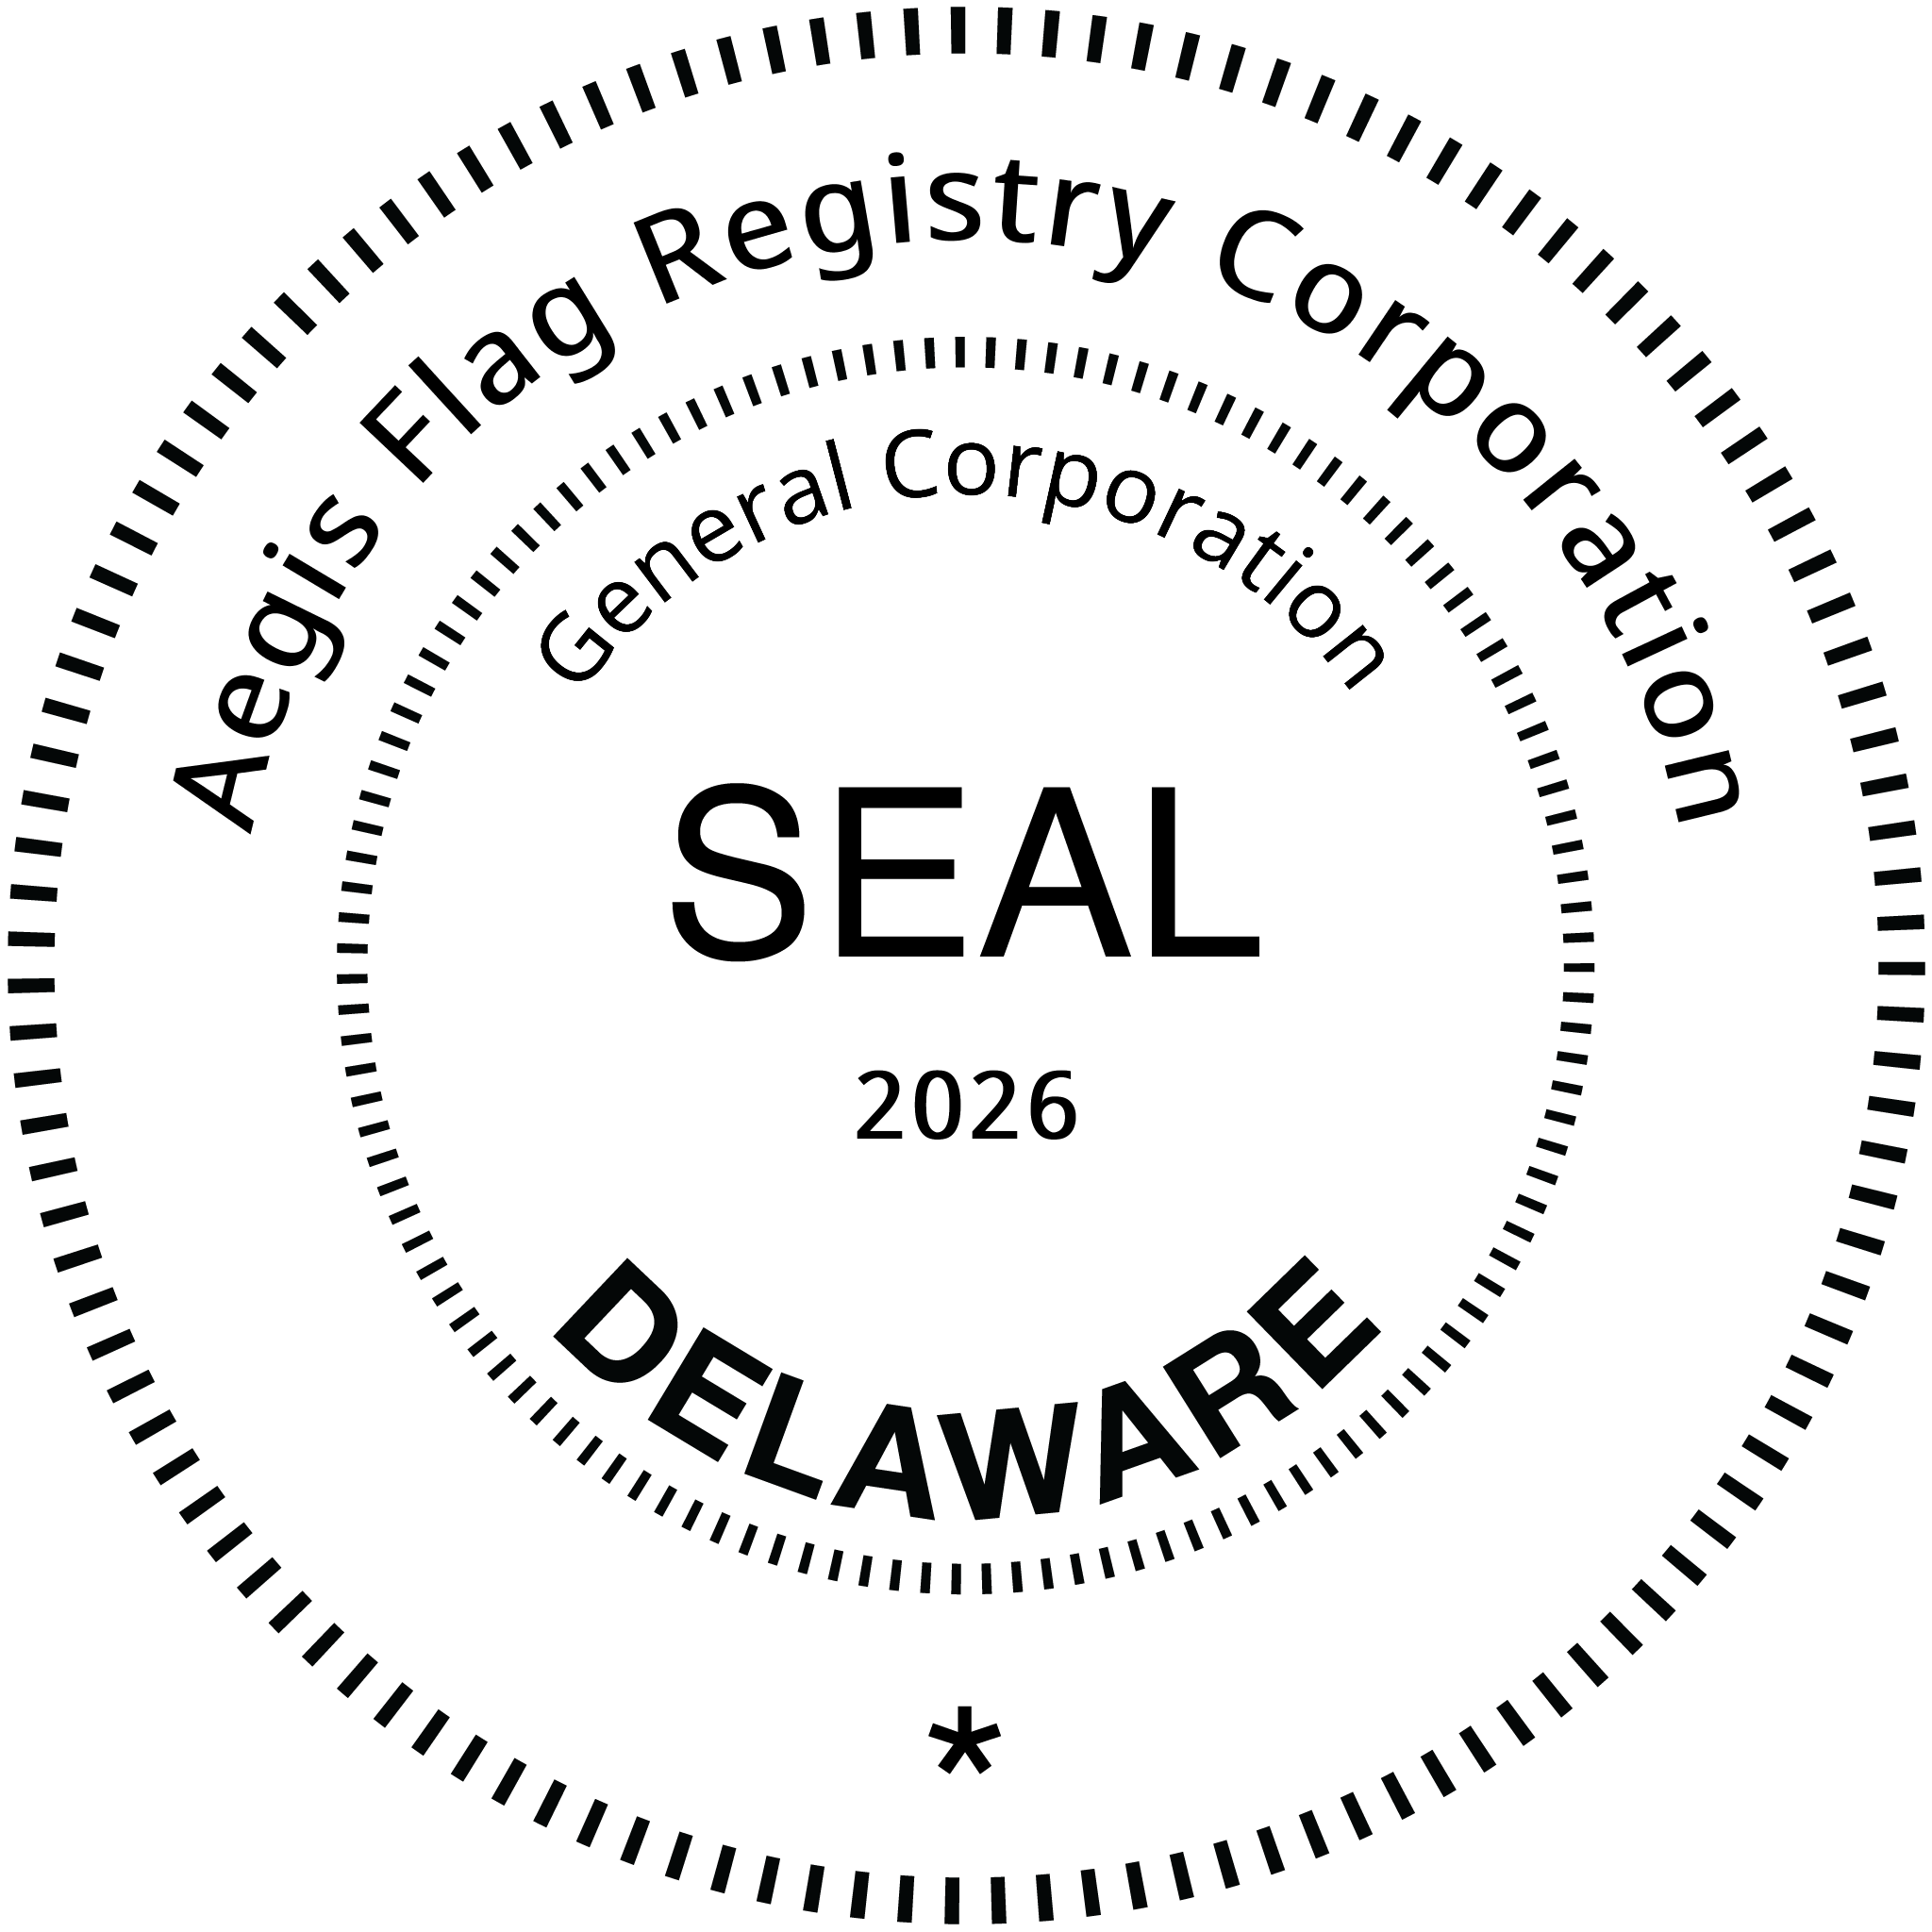
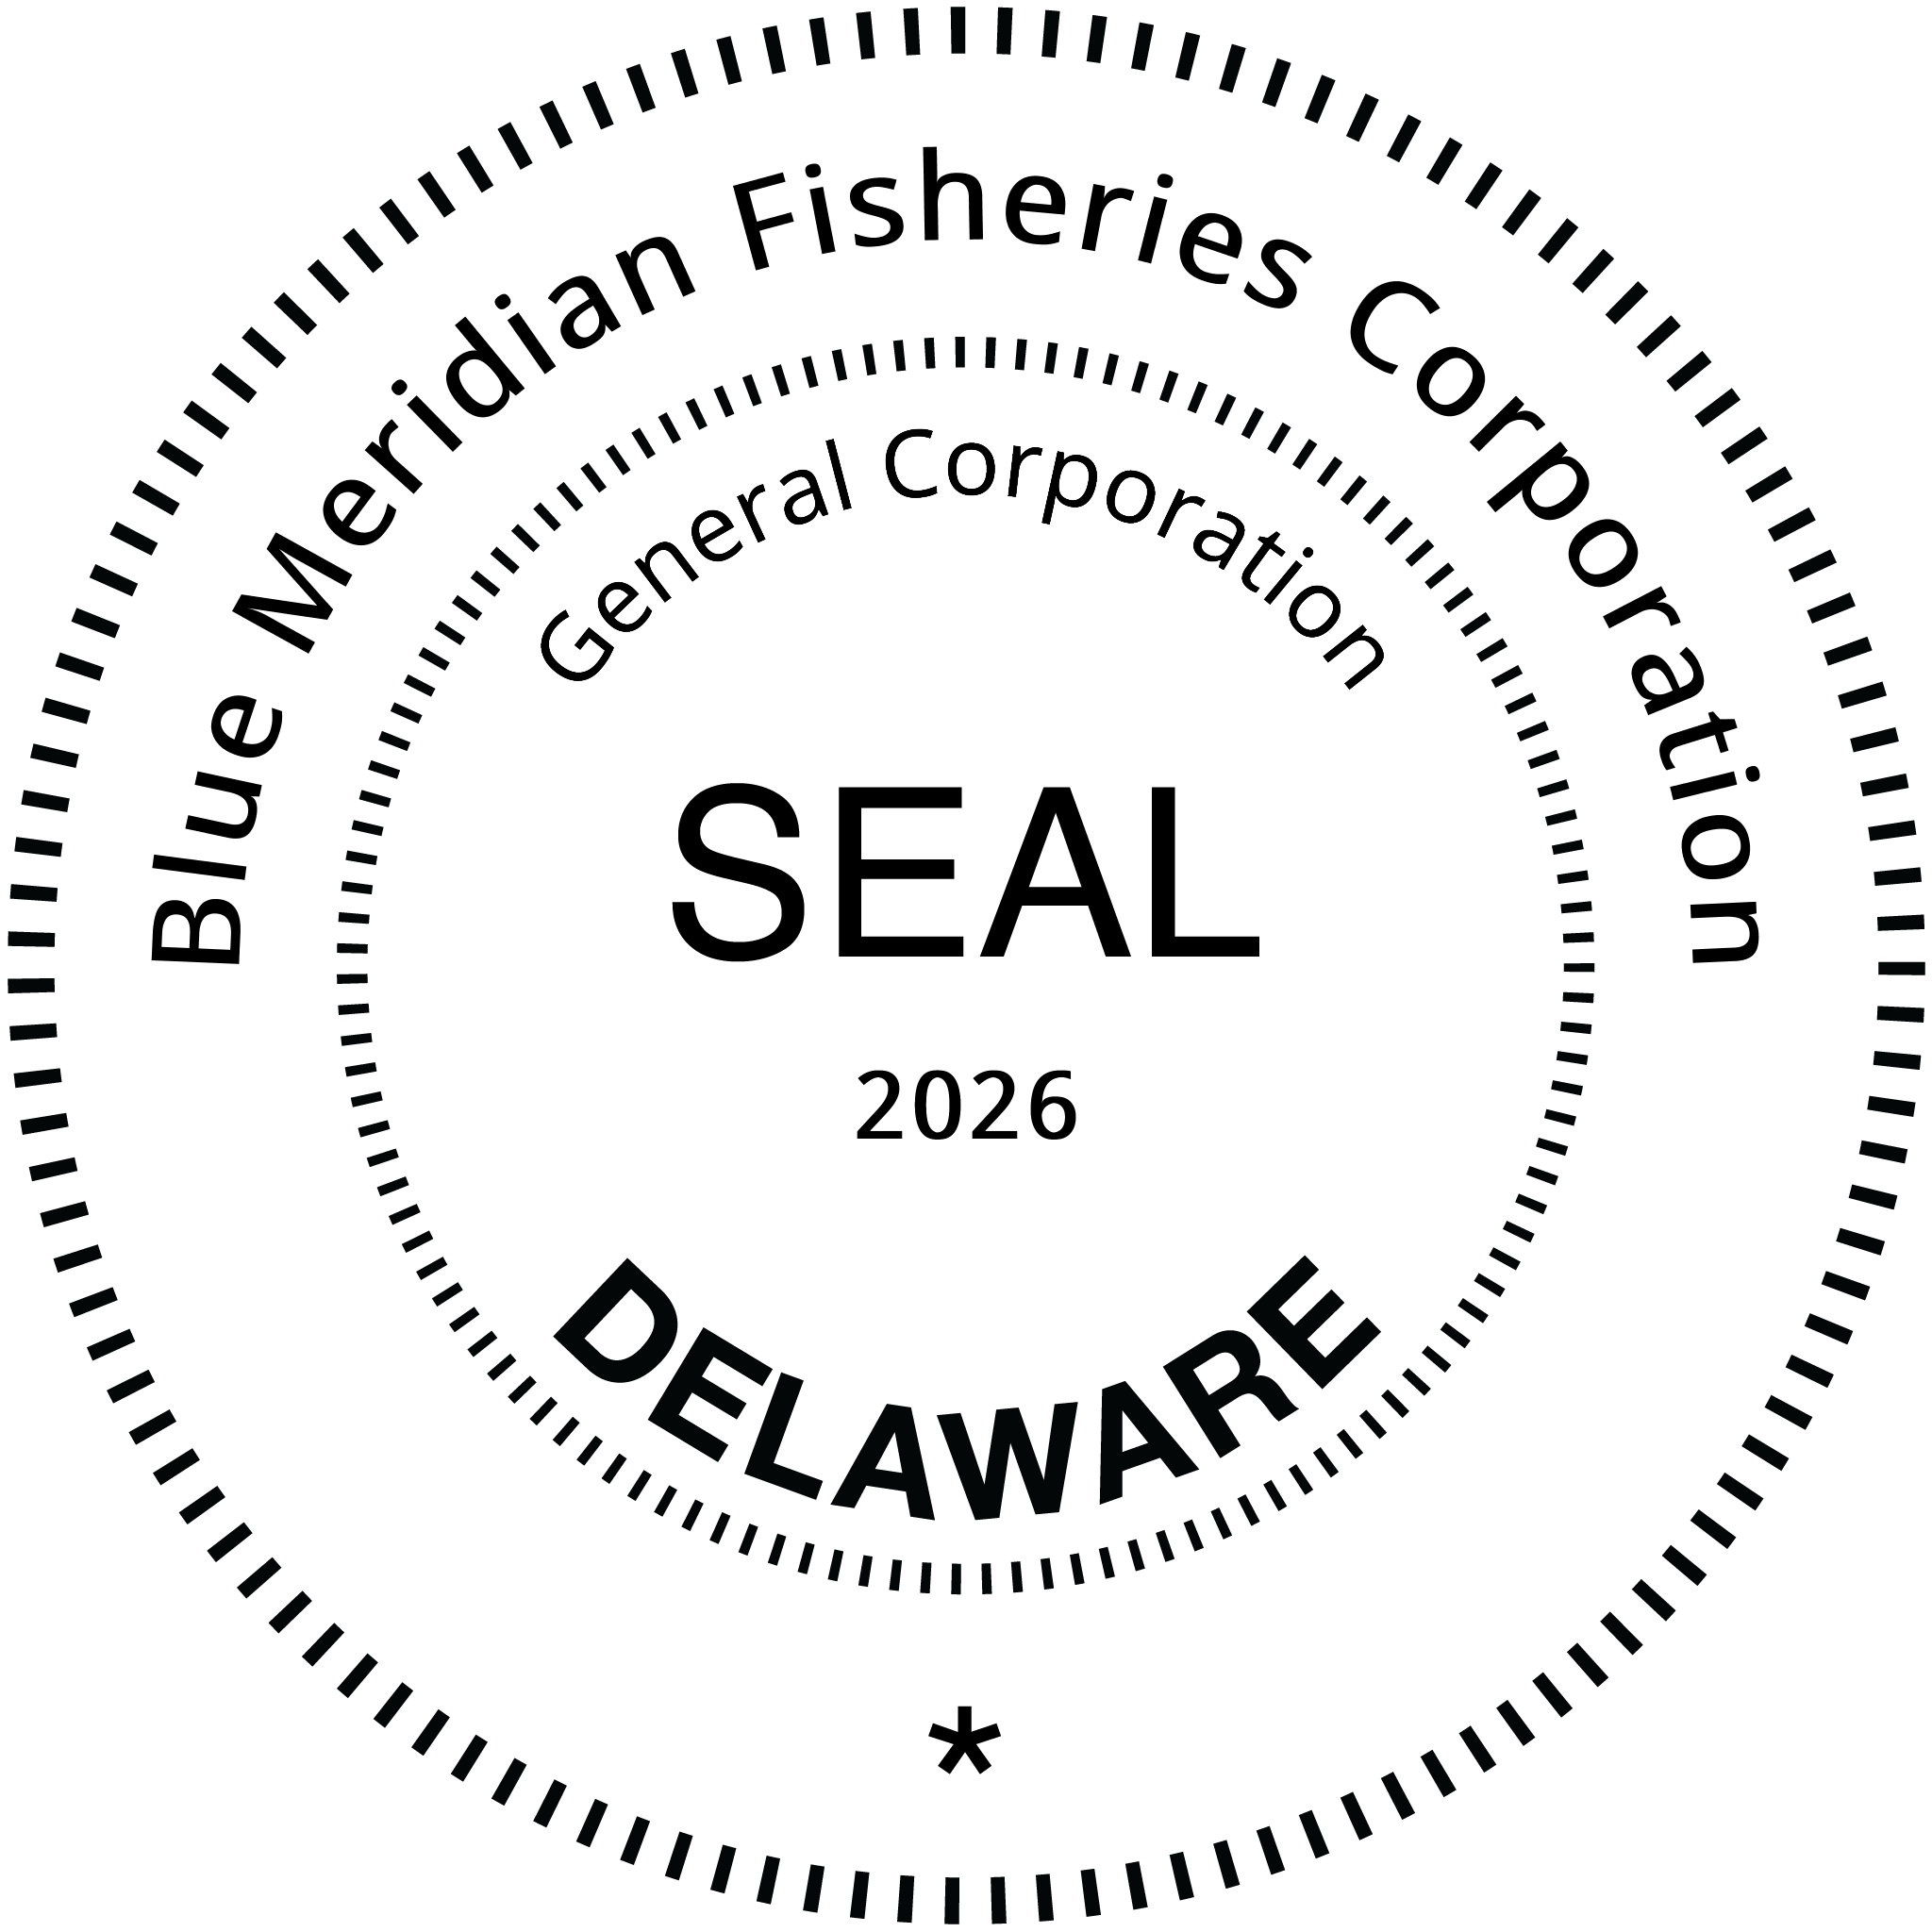
feat: rebrand to Blue Meridian Fisheries Corporation
- Update company name, file number (DE 10677862), and serial prefix
  (BMFC-) throughout certificate and landing page
- Replace stamp with Blue Meridian stamp
- Update wrangler.toml: project name, R2 bucket (bluemeridian),
  D1 database name (bluemeridian_db — ID pending)

Changed region(s): [[0.0625, 0.0625, 0.9062, 0.5]]

diff --git a/src/lib/certificate.ts b/src/lib/certificate.ts
@@ -56,9 +56,9 @@ export async function generateCertificate(
   }
 
   // Company name
-  centered('AEGIS FLAG REGISTRY CORPORATION', bold, 21, height - 104, DARK_BLUE);
+  centered('BLUE MERIDIAN FISHERIES CORPORATION', bold, 21, height - 104, DARK_BLUE);
   // Subtitle
-  centered('Delaware Corporation  ·  File Number: DE 10677842  ·  Incorporated: June 26, 2026', regular, 8.5, height - 122, GRAY);
+  centered('Delaware Corporation  ·  File Number: DE 10677862  ·  Incorporated: June 26, 2026', regular, 8.5, height - 122, GRAY);
   // Rule below subtitle
   page.drawLine({ start:{x:inner+20, y:height-135}, end:{x:width-inner-20, y:height-135}, thickness: 0.4, color: DARK_BLUE });
 
@@ -81,7 +81,7 @@ export async function generateCertificate(
   centered(`This certifies that ${name},`, italic, 13, height - 232);
   centered(`incorporated in ${jurisdiction},`, italic, 13, height - 252);
   centered(`is the registered holder of ${percentage}% of the total authorized capital stock`, italic, 13, height - 272);
-  centered('of Aegis Flag Registry Corporation.', italic, 13, height - 292);
+  centered('of Blue Meridian Fisheries Corporation.', italic, 13, height - 292);
 
   // Stamp (center-bottom)
   try {
@@ -95,7 +95,7 @@ export async function generateCertificate(
   page.drawLine({ start:{x:inner+20, y:inner+100}, end:{x:width-inner-20, y:inner+100}, thickness: 0.3, color: DARK_BLUE });
 
   // Serial number (bottom-left)
-  const serial = `No. AEGIS-2026-${String(id).padStart(4, '0')}`;
+  const serial = `No. BMFC-2026-${String(id).padStart(4, '0')}`;
   page.drawText(serial, { x: inner+20, y: inner+108, font: bold, size: 8, color: DARK_BLUE });
 
   // Issue date (below serial)